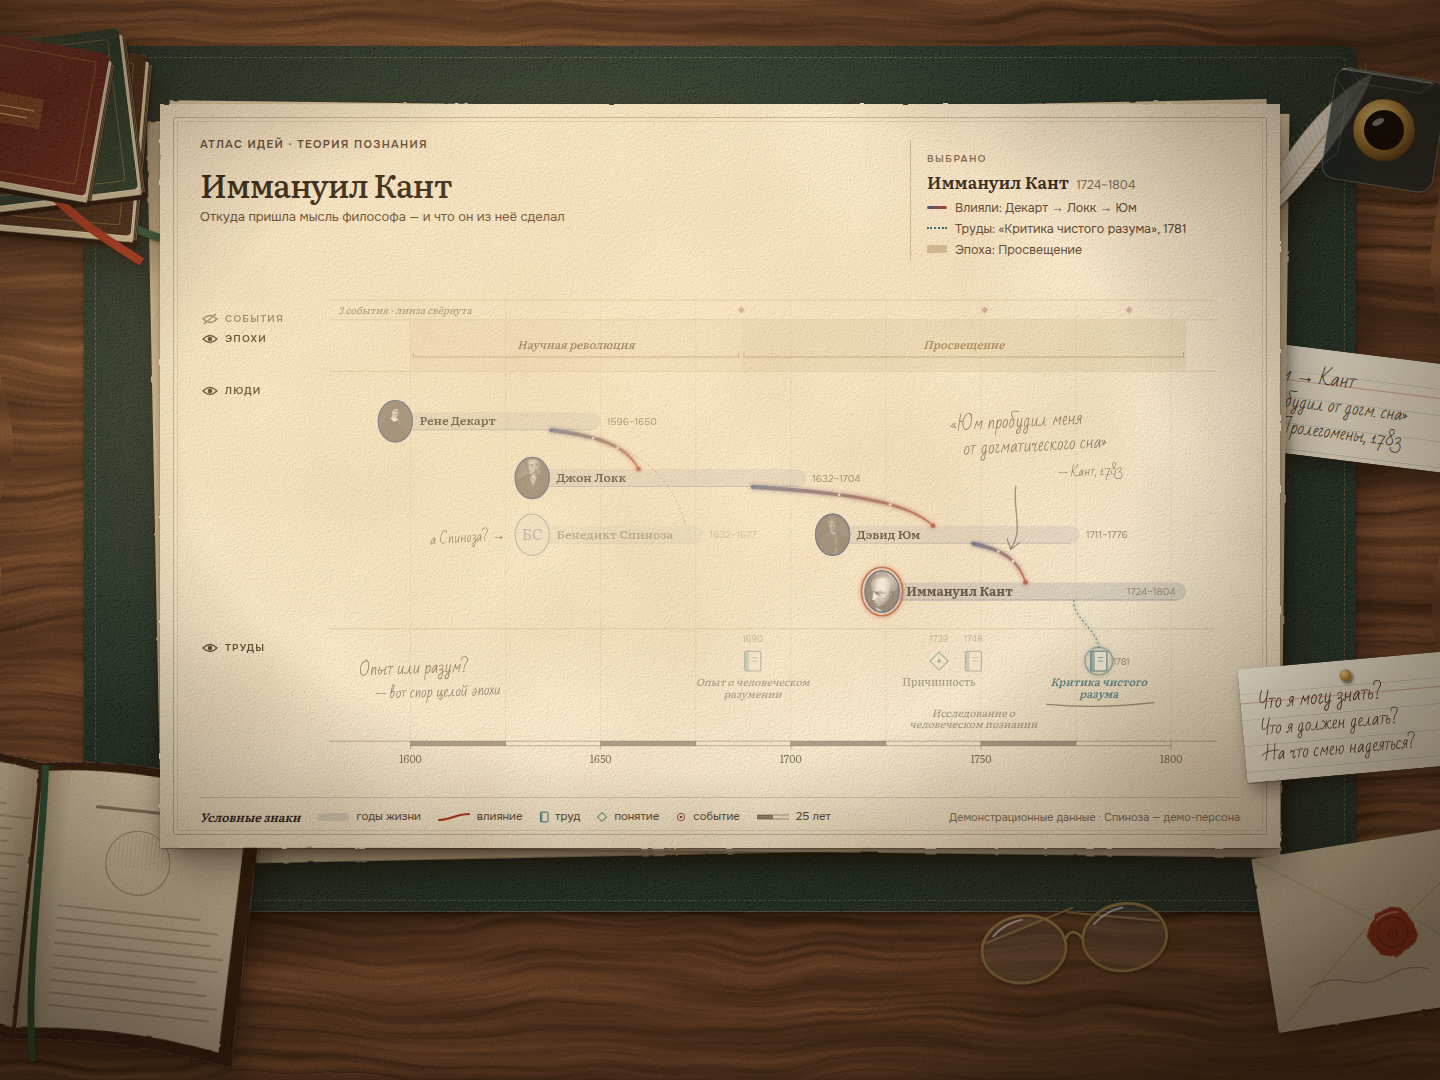
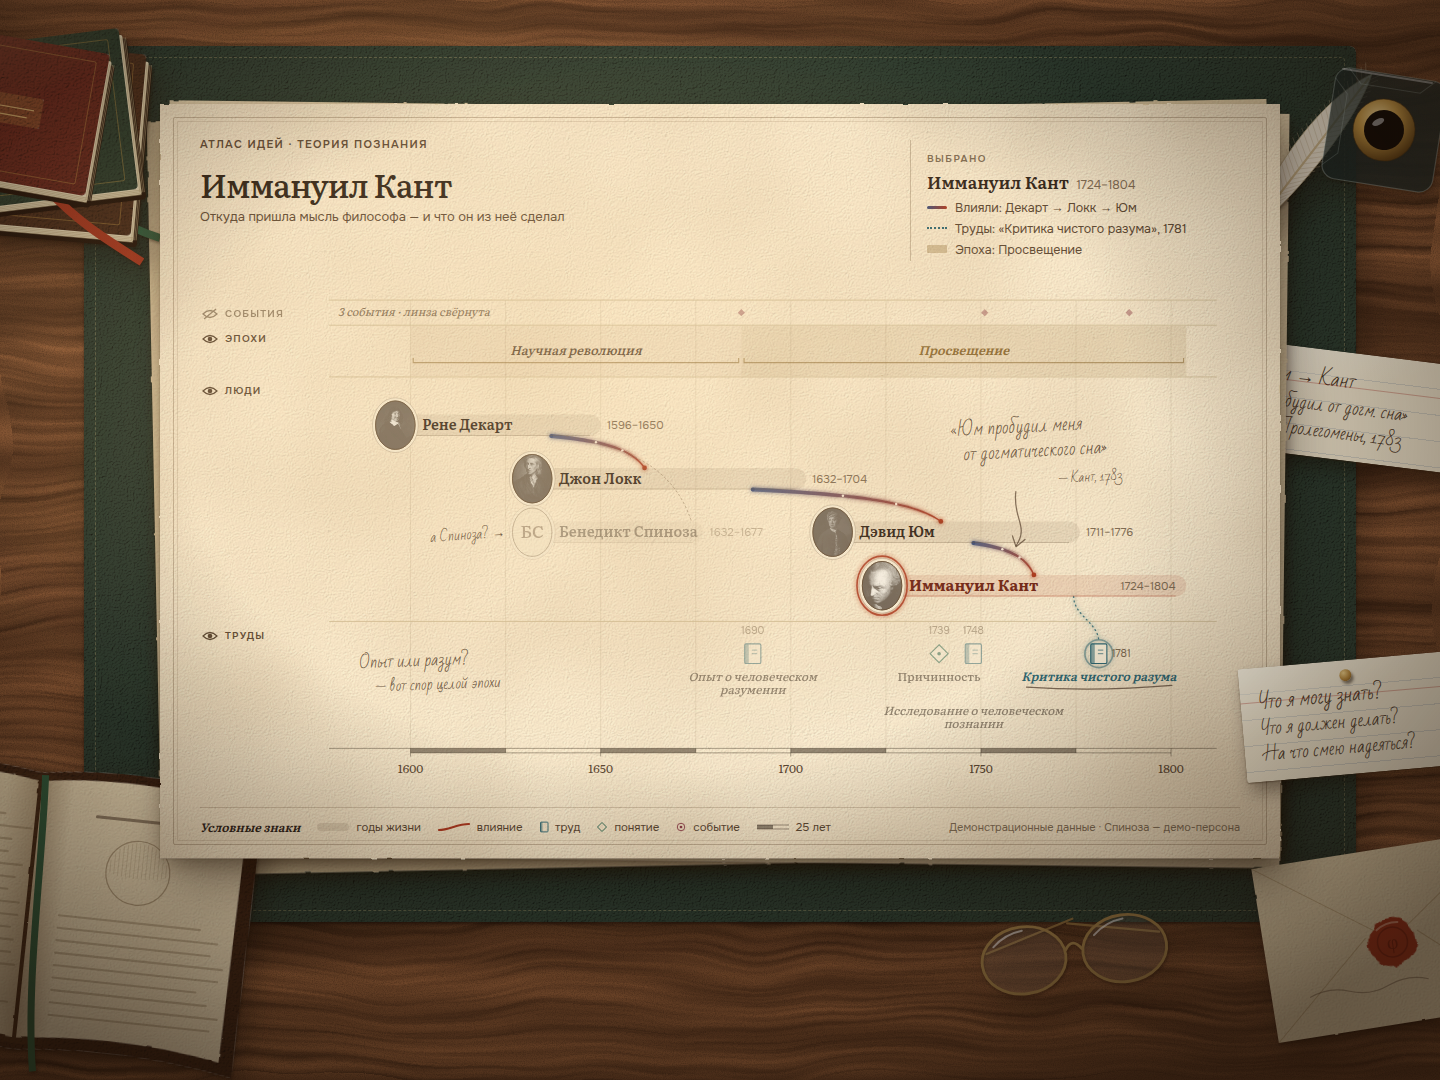
design(cycle-4): читаемый масштаб, медальоны-камеи, сепийные ленты
Прогон 4: текст графа крупнее (читается на 1280), ленты жизни — сепийная
размывка, у выбранного — киноварная; медальоны крупнее с двойной рамкой камеи;
компактные тогглы свёрнутых страт; исправлено измерение текста до вставки в DOM
(годы Канта больше не обрезаются), нить к Спинозе садится на торец ленты.

diff --git a/docs/design/system/previews/graph-f02-lenses/desk-chart.js b/docs/design/system/previews/graph-f02-lenses/desk-chart.js
@@ -3,14 +3,14 @@
    (влияния — киноварный поток, труды — бирюзовая нить, эпоха — подсветка без линий). */
 (function(){
   const NS='http://www.w3.org/2000/svg';
-  const W=1160,PLOT_L=150,PLOT_R=W-26,TOP=28,BODY=492,AXIS_H=46,COLL=22;
+  const W=1160,PLOT_L=150,PLOT_R=W-26,TOP=28,BODY=500,AXIS_H=50,COLL=28;
   const Y0=1580,Y1=1812,X=y=>PLOT_L+(y-Y0)/(Y1-Y0)*(PLOT_R-PLOT_L);
   const ORDER=['events','eras','people','works'];
   const META={
     events:{label:'События',w:.10,max:90,count:'3 события'},
     eras:{label:'Эпохи',w:.11,max:80,count:'2 эпохи'},
-    people:{label:'Люди',w:.55,max:9999,count:'5 философов'},
-    works:{label:'Труды',w:.24,max:200,count:'4 труда'},
+    people:{label:'Люди',w:.52,max:9999,count:'5 философов'},
+    works:{label:'Труды',w:.27,max:210,count:'4 труда'},
   };
   const state={sel:'kant',on:{events:false,eras:true,people:true,works:true}};
 
@@ -33,7 +33,7 @@
   const eras=[{label:'Научная революция',from:1600,to:1687},{label:'Просвещение',from:1687,to:1804}];
   const events=[{year:1687,label:'«Начала» Ньютона'},{year:1751,label:'Энциклопедия'},{year:1789,label:'Французская революция'}];
 
-  const RX=19,RY=23,BAND=20;
+  const RX=22,RY=27,BAND=24;
   const S=(t,a,txt)=>{const e=document.createElementNS(NS,t);for(const k in a)e.setAttribute(k,a[k]);if(txt!=null)e.textContent=txt;return e;};
   const cub=(P,t)=>{const u=1-t;return{x:u*u*u*P[0].x+3*u*u*t*P[1].x+3*u*t*t*P[2].x+t*t*t*P[3].x,y:u*u*u*P[0].y+3*u*u*t*P[1].y+3*u*t*t*P[2].y+t*t*t*P[3].y};};
   const tan=(P,t)=>{const u=1-t;return{x:3*u*u*(P[1].x-P[0].x)+6*u*t*(P[2].x-P[1].x)+3*t*t*(P[3].x-P[2].x),y:3*u*u*(P[1].y-P[0].y)+6*u*t*(P[2].y-P[1].y)+3*t*t*(P[3].y-P[2].y)};};
@@ -78,7 +78,7 @@
     /* сетка времени и границы страт */
     for(let y=1600;y<=1800;y+=25){const x=X(y);L.grid.append(S('line',{x1:x,y1:TOP,x2:x,y2:bands.works.bot,class:'time-grid'}));}
     ORDER.forEach(k=>{const b=bands[k];L.bands.append(S('line',{x1:PLOT_L-6,y1:b.top,x2:PLOT_R,y2:b.top,class:'band-sep'}));
-      if(b.collapsed)L.bands.append(S('text',{x:PLOT_L+4,y:b.top+15,class:'collapsed-note'},`${b.count} · линза свёрнута`));});
+      if(b.collapsed)L.bands.append(S('text',{x:PLOT_L+4,y:b.top+18,class:'collapsed-note'},`${b.count} · линза свёрнута`));});
 
     /* люди: геометрия заранее (нужна эпохам и связям) */
     const bp=bands.people,LANES=Math.max(...people.map(p=>p.lane))+1;
@@ -107,26 +107,28 @@
     if(bp.collapsed){people.forEach(p=>L.people.append(S('rect',{x:p.bx,y:bp.top+COLL-7,width:p.dx-p.bx,height:3,rx:1.5,fill:'var(--people)',opacity:.35})));}
     else people.forEach(p=>{
       const sel=p.id===state.sel,on=!R||R.people.has(p.id);
-      const g=S('g',{class:'person'+(isDim(on)?' dim':''),'data-person':p.id,tabindex:0,role:'button','aria-pressed':String(sel),'aria-label':`${p.name}, ${p.birth}–${p.death}`});
-      g.append(S('rect',{x:p.bx,y:p.y-BAND/2,width:p.dx-p.bx,height:BAND,rx:BAND/2,fill:'var(--people)','fill-opacity':sel?.2:.12}));
-      g.append(S('path',{d:`M${p.bx+RX} ${p.y+BAND/2-.5} H${p.dx-BAND/2}`,stroke:'var(--people)','stroke-opacity':sel?.45:.28,'stroke-width':1}));
-      const name=S('text',{x:p.bx+RX+8,y:p.y+4.6,class:sel?'sel-name':'person-name'},p.name);g.append(name);
-      const yrIn=p.dx+74>W-4;g.append(S('text',{x:yrIn?p.dx-12:p.dx+7,y:p.y+4,class:'person-years','text-anchor':yrIn?'end':'start'},`${p.birth}–${p.death}`));
-      if(sel)g.append(S('ellipse',{cx:p.bx,cy:p.y,rx:RX+4,ry:RY+4,fill:'none',stroke:'var(--graph-selected)','stroke-width':1.8,'stroke-opacity':.85,filter:'url(#glow)'}));
-      g.append(S('ellipse',{cx:p.bx,cy:p.y,rx:RX+7,ry:RY+7,class:'focus-ring'}));
+      const g=S('g',{class:'person'+(isDim(on)?' dim':''),'data-person':p.id,tabindex:0,role:'button','aria-pressed':String(sel),'aria-label':`${p.name}, ${p.birth}–${p.death}`});L.people.append(g);
+      g.append(S('rect',{x:p.bx,y:p.y-BAND/2,width:p.dx-p.bx,height:BAND,rx:BAND/2,fill:sel?'var(--graph-selected)':'var(--graph-ink-secondary)','fill-opacity':sel?.12:.1}));
+      g.append(S('path',{d:`M${p.bx+RX} ${p.y+BAND/2-.5} H${p.dx-BAND/2}`,stroke:sel?'var(--graph-selected)':'var(--graph-ink-secondary)','stroke-opacity':sel?.45:.25,'stroke-width':1}));
+      const name=S('text',{x:p.bx+RX+8,y:p.y+5.4,class:sel?'sel-name':'person-name'},p.name);g.append(name);
+      const yr=S('text',{x:p.dx+7,y:p.y+4.5,class:'person-years'},`${p.birth}–${p.death}`);g.append(yr);if(p.dx+7+yr.getComputedTextLength()>W-4){yr.setAttribute('x',p.dx-12);yr.setAttribute('text-anchor','end');}
+      if(sel)g.append(S('ellipse',{cx:p.bx,cy:p.y,rx:RX+6,ry:RY+6,fill:'none',stroke:'var(--graph-selected)','stroke-width':1.8,'stroke-opacity':.85,filter:'url(#glow)'}));
+      g.append(S('ellipse',{cx:p.bx,cy:p.y,rx:RX+9,ry:RY+9,class:'focus-ring'}));
       const cp=S('clipPath',{id:'clip-'+p.id});cp.append(S('ellipse',{cx:p.bx,cy:p.y,rx:RX,ry:RY}));defs.append(cp);
+      g.append(S('ellipse',{cx:p.bx,cy:p.y,rx:RX+3.5,ry:RY+3.5,fill:'var(--graph-sheet)',stroke:'var(--graph-ink-secondary)','stroke-opacity':.35,'stroke-width':.7}));
       g.append(S('ellipse',{cx:p.bx,cy:p.y,rx:RX,ry:RY,class:'medallion-ring'}));
       if(p.portrait){g.append(S('image',{href:'../graph-f02/assets/'+p.portrait,x:p.bx-RX,y:p.y-RY,width:RX*2,height:RY*2,preserveAspectRatio:'xMidYMid slice','clip-path':`url(#clip-${p.id})`,filter:'url(#duo)'}));
-                     g.append(S('ellipse',{cx:p.bx,cy:p.y,rx:RX,ry:RY,fill:'none',stroke:'var(--people)','stroke-width':1.2}));}
-      else g.append(S('text',{x:p.bx,y:p.y+6,class:'monogram'},p.mono));
-      L.people.append(g);p.labelEnd=p.bx+RX+8+name.getComputedTextLength();
+                     g.append(S('ellipse',{cx:p.bx,cy:p.y,rx:RX,ry:RY,fill:'none',stroke:'var(--graph-ink-secondary)','stroke-opacity':.8,'stroke-width':1.1}));}
+      else g.append(S('text',{x:p.bx,y:p.y+7,class:'monogram'},p.mono));
+      p.labelEnd=p.bx+RX+8+name.getComputedTextLength();
     });
 
     /* влияния: от года труда учителя к ленте ученика */
     const mids={};
     if(!bp.collapsed)influences.forEach((e,i)=>{
       const s=byId[e.a],t=byId[e.b],act=!!(R&&R.edges.has(e.a+'-'+e.b));
-      const A={x:Math.min(Math.max(X(e.via),s.labelEnd+10),s.dx-8),y:s.y+BAND/2},B={x:Math.min(Math.max(X(t.birth+22),t.labelEnd+14),t.dx-10),y:t.y-BAND/2};
+      const A={x:Math.min(Math.max(X(e.via),s.labelEnd+10),s.dx-8),y:s.y+BAND/2},bx0=Math.max(X(t.birth+22),t.labelEnd+14);
+      const B=bx0>t.dx-8?{x:t.dx-3,y:t.y-BAND/2+5}:{x:bx0,y:t.y-BAND/2};
       const dx=B.x-A.x,dy=B.y-A.y,P=[A,{x:A.x+dx*.5,y:A.y+dy*.15},{x:B.x-dx*.15,y:B.y-dy*.65},B];mids[e.a+'-'+e.b]=cub(P,.5);
       const d=`M${A.x},${A.y} C${P[1].x},${P[1].y} ${P[2].x},${P[2].y} ${B.x},${B.y}`;
       if(R&&!act){L.threads.append(S('path',{d,fill:'none',stroke:'var(--graph-ink-muted)','stroke-opacity':.5,'stroke-width':1,'stroke-dasharray':'2 3','stroke-linecap':'round'}));return;}
@@ -151,12 +153,12 @@
           g.append(S('rect',{x:x-9,y:my-11,width:4.5,height:22,rx:1.2,fill:'var(--texts)','fill-opacity':.55}));
           g.append(S('path',{d:`M${x-1} ${my-4} h6 M${x-1} ${my} h6`,stroke:'var(--texts)','stroke-width':1,'stroke-opacity':.8}));}
         else{g.append(S('path',{d:`M${x} ${my-10} L${x+10} ${my} L${x} ${my+10} L${x-10} ${my} Z`,class:'concept-mark'}));g.append(S('circle',{cx:x,cy:my,r:2,fill:'var(--ideas)'}));}
-        g.append(act?S('text',{x:x+25,y:my+4,class:'work-year','text-anchor':'start'},it.year):S('text',{x,y:my-21,class:'work-year','text-anchor':'middle'},it.year));
+        g.append(act?S('text',{x:x+25,y:my+4,class:'work-year','text-anchor':'start'},it.year):S('text',{x,y:my-22,class:'work-year','text-anchor':'middle'},it.year));
         const t=S('text',{x,class:act?'work-active-title':(it.kind==='work'?'work-title':'concept-title'),'text-anchor':'middle'});g.append(t);L.works.append(g);
-        const lines=[''];it.title.split(' ').forEach(w=>{const c=(lines[lines.length-1]+' '+w).trim();t.textContent=c;if(t.getComputedTextLength()>150&&lines[lines.length-1])lines.push(w);else lines[lines.length-1]=c;});
-        t.textContent='';lines.forEach((ln,k)=>t.append(S('tspan',{x,dy:k?13:0},ln)));
+        const lines=[''];it.title.split(' ').forEach(w=>{const c=(lines[lines.length-1]+' '+w).trim();t.textContent=c;if(t.getComputedTextLength()>170&&lines[lines.length-1])lines.push(w);else lines[lines.length-1]=c;});
+        t.textContent='';lines.forEach((ln,k)=>t.append(S('tspan',{x,dy:k?15:0},ln)));
         const w2=t.getBBox().width,x0=x-w2/2-6,x1=x+w2/2+6,row=rows[0].every(([a,b])=>x1<a||x0>b)?0:1;rows[row].push([x0,x1]);
-        t.setAttribute('y',my+28+row*34);t.firstChild.setAttribute('y',my+28+row*34);it.titleBox=t;
+        t.setAttribute('y',my+30+row*38);t.firstChild.setAttribute('y',my+30+row*38);it.titleBox=t;
         if(act){L.works.insertBefore(S('circle',{cx:x,cy:my,r:15.5,fill:'none',stroke:'var(--texts)','stroke-width':1.8,'stroke-opacity':.5,filter:'url(#glow)'}),g);
           if(!bp.collapsed){const au=byId[it.author],A={x:Math.min(Math.max(x-28,au.labelEnd+10),au.dx-10),y:au.y+BAND/2},B={x,y:my-13};
             L.threads.append(S('path',{d:`M${A.x},${A.y} C${A.x},${A.y+22} ${B.x},${B.y-22} ${B.x},${B.y}`,fill:'none',stroke:'var(--texts)','stroke-width':1.5,'stroke-opacity':.85,'stroke-dasharray':'1 4','stroke-linecap':'round',filter:'url(#glow)'}));}}
@@ -167,7 +169,7 @@
     L.axis.append(S('line',{x1:PLOT_L-6,y1:ay,x2:PLOT_R,y2:ay,stroke:'var(--graph-ink)','stroke-opacity':.55,'stroke-width':.8}));
     L.axis.append(S('line',{x1:X(1600),y1:ay+5,x2:X(1800),y2:ay+5,stroke:'var(--graph-ink)','stroke-opacity':.55,'stroke-width':.8}));
     for(let y=1600,k=0;y<1800;y+=25,k++)if(k%2===0)L.axis.append(S('rect',{x:X(y),y:ay,width:X(y+25)-X(y),height:5,fill:'var(--graph-ink)','fill-opacity':.5}));
-    for(let y=1600;y<=1800;y+=25){const x=X(y),maj=y%50===0;L.axis.append(S('line',{x1:x,y1:ay,x2:x,y2:ay+(maj?9:5),stroke:'var(--graph-ink)','stroke-opacity':.55,'stroke-width':.8}));if(maj)L.axis.append(S('text',{x,y:ay+24,class:'axis-year'},y));}
+    for(let y=1600;y<=1800;y+=25){const x=X(y),maj=y%50===0;L.axis.append(S('line',{x1:x,y1:ay,x2:x,y2:ay+(maj?9:5),stroke:'var(--graph-ink)','stroke-opacity':.55,'stroke-width':.8}));if(maj)L.axis.append(S('text',{x,y:ay+27,class:'axis-year'},y));}
 
     /* рукописные пометки философа */
     const hand=(x,y,s,txt,rot,anchor)=>L.notes.append(S('text',{x,y,class:'hand','font-size':s,'text-anchor':anchor||'start',transform:`rotate(${rot} ${x} ${y})`},txt));

diff --git a/docs/design/system/previews/graph-f02-lenses/desk.html b/docs/design/system/previews/graph-f02-lenses/desk.html
@@ -104,7 +104,7 @@
       <footer class="legend-row">
         <div class="legend" aria-label="Условные знаки">
           <span class="legend-title">Условные знаки</span>
-          <span><svg viewBox="0 0 34 12"><rect x="1" y="2" width="32" height="8" rx="4" fill="var(--people)" fill-opacity=".14"/></svg>годы жизни</span>
+          <span><svg viewBox="0 0 34 12"><rect x="1" y="2" width="32" height="8" rx="4" fill="var(--graph-ink-secondary)" fill-opacity=".14"/></svg>годы жизни</span>
           <span><svg viewBox="0 0 34 12"><path d="M2 9 C12 9 20 3 32 3" fill="none" stroke="var(--graph-selected)" stroke-width="2.2" stroke-linecap="round"/></svg>влияние</span>
           <span><svg viewBox="0 0 14 16"><rect x="2" y="1.5" width="10" height="13" rx="1" fill="none" stroke="var(--texts)" stroke-width="1.2"/><rect x="2" y="1.5" width="2.6" height="13" fill="var(--texts)" fill-opacity=".55"/></svg>труд</span>
           <span><svg viewBox="0 0 16 16"><path d="M8 2 L14 8 L8 14 L2 8 Z" fill="none" stroke="var(--ideas)" stroke-width="1.2"/></svg>понятие</span>

diff --git a/docs/design/system/previews/graph-f02-lenses/desk.css b/docs/design/system/previews/graph-f02-lenses/desk.css
@@ -137,3 +137,18 @@
 .legend svg{height:12px;width:auto}
 .legend-title{font:italic 600 12px Literata,Georgia,serif;color:var(--graph-ink)}
 .edition-note{font-size:11px;color:var(--graph-ink-muted)}
+/* Прогон 4: масштаб текста графа, камеи, компактные тогглы */
+.scene .person-name{font:600 16px Literata,Georgia,serif}
+.scene .sel-name{font:700 17px Literata,Georgia,serif;fill:#6e2416}
+.scene .person-years{font:400 12.5px Onest,Arial,sans-serif}
+.scene .monogram{font:500 19px Literata,Georgia,serif;fill:var(--graph-ink-secondary)}
+.scene .medallion-ring{fill:#efe4c8;stroke:var(--graph-ink-secondary);stroke-opacity:.8;stroke-width:1.1}
+.scene .work-title,.scene .concept-title{font-size:13px}
+.scene .work-active-title{font-size:13.5px}
+.scene .work-year{font-size:11.5px}
+.scene .era-text{font-size:14px}
+.scene .axis-year{font-size:13.5px}
+.scene .event-year{font-size:12.5px}
+.scene .event-text{font-size:13px}
+.collapsed-note{font-size:12.5px}
+.lens-toggle{min-height:22px;padding:2px 6px 2px 2px;transform:translateY(3px)}
